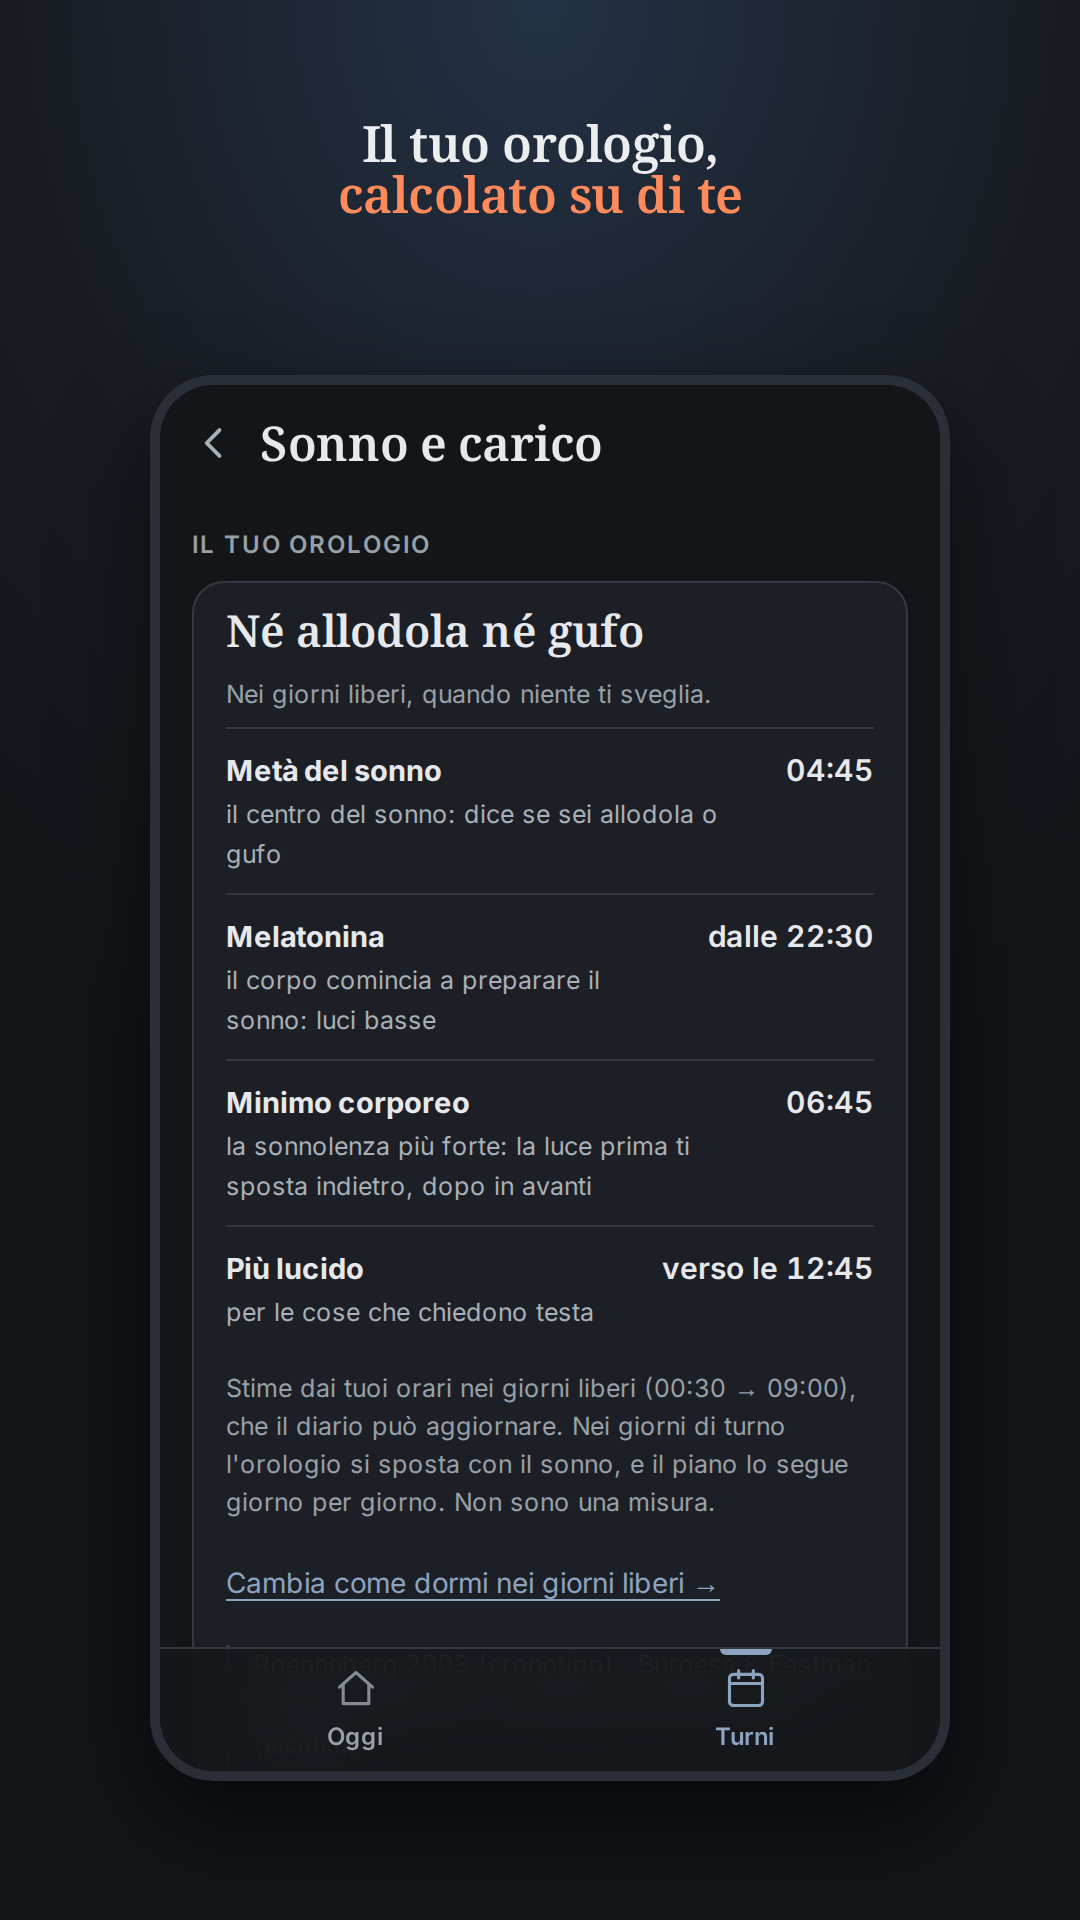
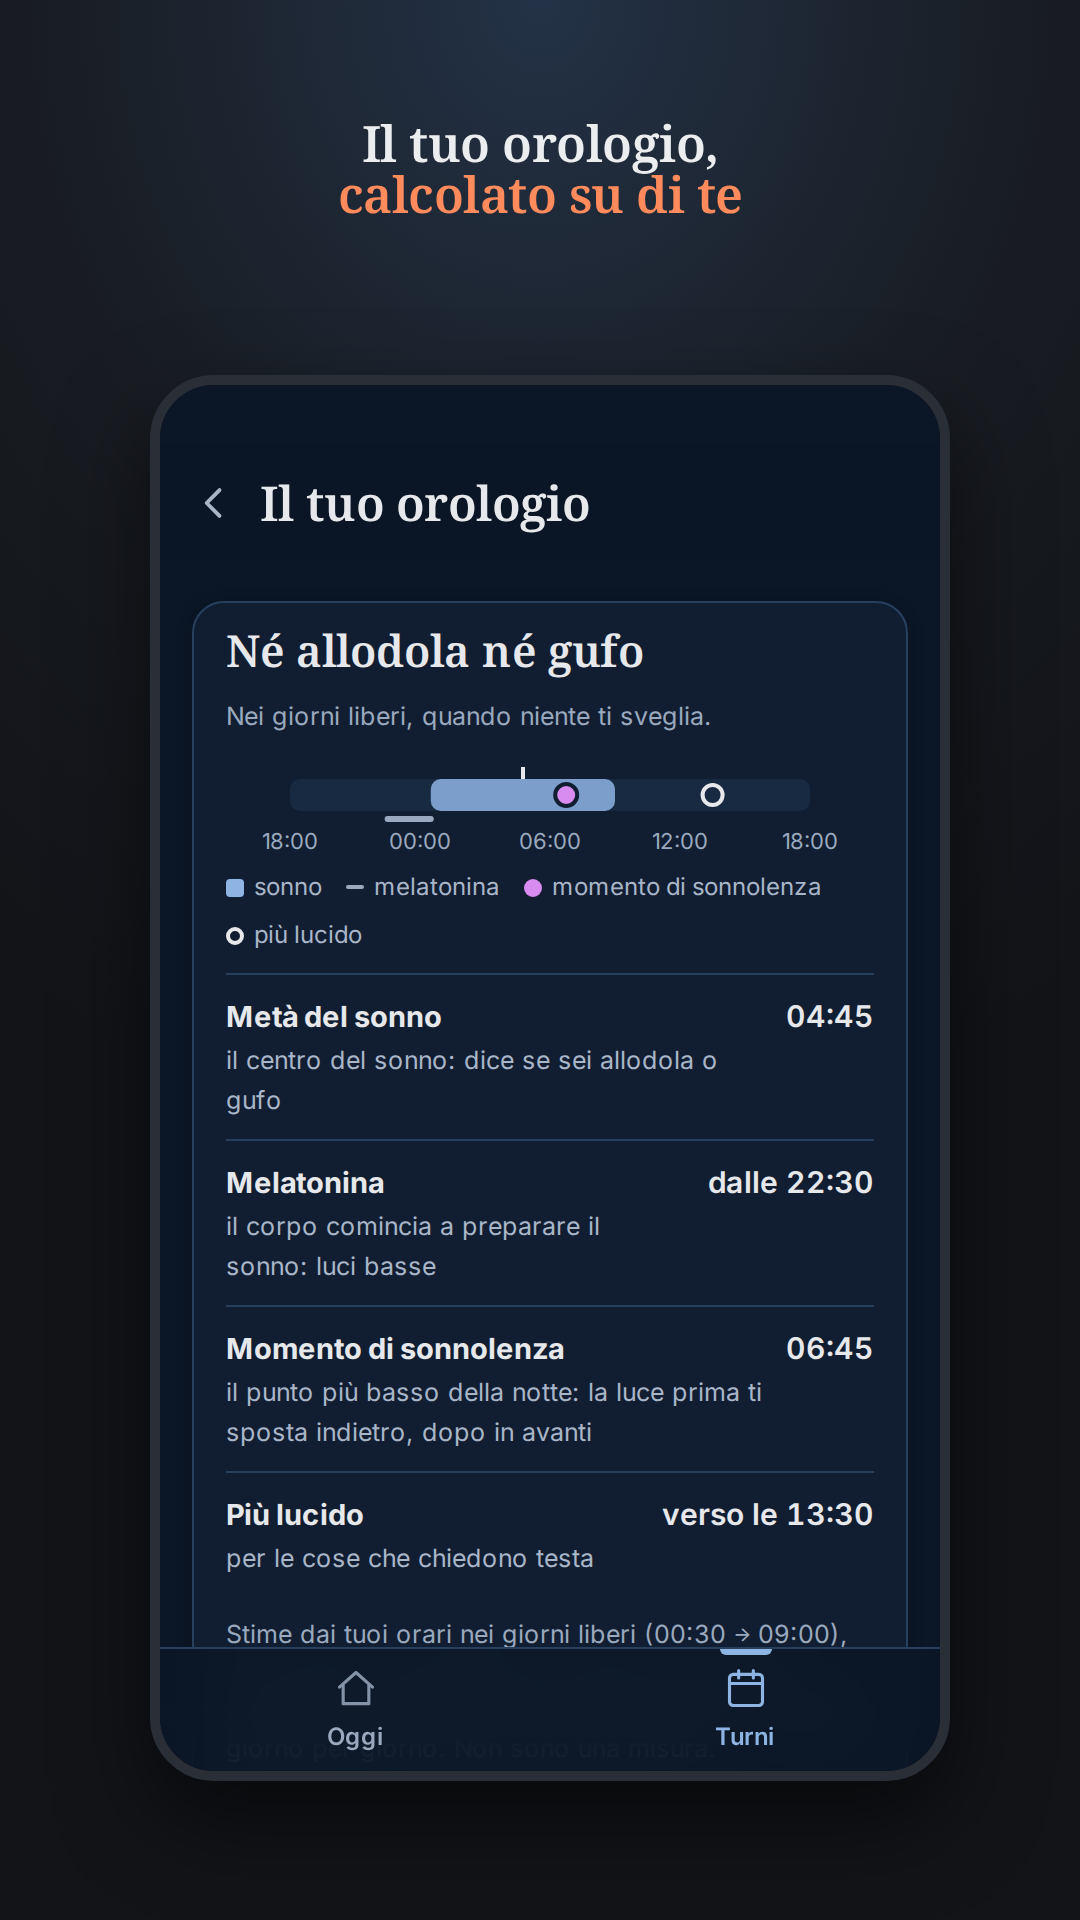
Scheda Play 1.4.0: descrizione completa aggiornata, note di versione, screenshot nuovi (mese, perché con le fonti, orologio, segna); dichiarazioni Health Connect e avvisi della release nei moduli; la cornice «spunti, non regole» non compare più sopra l'avvio

Changed region(s): [[0.2139, 0.2188, 0.825, 0.9062], [0.1833, 0.25, 0.2139, 0.2812]]

diff --git a/index.html b/index.html
@@ -4455,6 +4455,7 @@ function render(){
   renderACasa();
   renderLoSapevi();
   arbitroInviti();
+  { const c=$(".cornice"); if(c) c.hidden=!state.turniConfigurati; }   // la cornice del piano: non sopra l'avvio, che ha già la sua riga
   const tab = state.tab || (ess ? "oggi" : "ciclo");
   // "piu" (la vecchia terza tab, eliminata) non è più un valore raggiungibile
   // di state.tab/tab: oggi solo "oggi"/"turni"/"opzioni" lo sono davvero

diff --git a/docs/play/scheda.md b/docs/play/scheda.md
@@ -20,62 +20,62 @@ Varianti per l'esperimento sulla scheda (Play Console → Esperimenti sulla sche
 - B (70): `Il calendario turni che ti dice quando dormire. Gratis, senza account.`
 - C (74): `Turni di notte? Quando dormire, il caffè e la luce, sul tuo turno. Gratis.`
 
-## Descrizione completa (max 4000)
+## Descrizione completa (max 4000) — 3494 caratteri
 Lavori a turni? Notturnisti è il calendario dei turni che fa una cosa in più: ti dice, giorno per giorno, quando dormire, fino a che ora prendere il caffè, quando cercare la luce e quando fare un pisolino, calcolati sul tuo ciclo vero. Notti, mattine, pomeriggi, smonti e riposi.
 
 Un tocco per iniziare. Zero account. Tutto gratis, anche promemoria, widget, sveglia e calendario: niente abbonamenti, niente pubblicità.
 
 Pensata sui turni italiani: smonto, quinta e sesta, 12 ore, reperibilità, festivi, le 11 ore di riposo fra un turno e l'altro.
 
-PERCHÉ NON UN SEMPLICE CALENDARIO TURNI
-Un calendario ti dice che domani fai la notte. Notturnisti ti dice anche cosa fare oggi per arrivarci in forma: quando andare a letto, il pisolino, l'ultimo caffè, e come rientrare dopo l'ultima notte senza perdere due giorni.
-
 COME FUNZIONA
-• Scegli il turno di oggi con un tocco, oppure il tuo schema, anche con turni irregolari o che cambiano ogni settimana.
-• Il piano è una timeline: ora, cosa fare e perché, su come dormi davvero, il tragitto, il caffè e i pisolini.
+• Scegli il turno di oggi con un tocco, oppure il tuo schema, anche se cambia ogni settimana.
+• «Adesso» ti dice cosa fare in questo momento; sotto c'è tutta la giornata.
+• Ogni voce ha il suo perché: prima cosa fare, poi la spiegazione e gli studi da cui viene.
 • Prima di un cambio turno ti prepara: a letto prima per le mattine, sonno lungo e pisolino prima della prima notte.
-• Ogni consiglio ha il suo perché, in parole semplici, con gli studi da cui viene.
-• Hai già i turni nel calendario, in un file Excel o in una foto? Li importi dal primo avvio, e se si ripetono il ciclo continua da solo.
+• Luce pensata su più giorni, per restare più sveglio al lavoro e sulla strada di casa.
+• Nappuccino: quando serve, un caffè subito prima di un pisolino breve.
+• Turni nel calendario, in un file Excel o in una foto? Li importi dal primo avvio.
+• Vuoi solo l'essenziale? «Piano essenziale» lascia sonno, turno, pisolino, caffè, rientro e luce.
 
 FUNZIONA DA SOLO
-• Promemoria: quando prepararti a dormire, l'ultimo caffè, il rientro dopo la notte (l'ora più a rischio per chi guida), e un consiglio in più nei giorni impegnativi, come la terza notte di fila. Scegli tu quali: al massimo 4 al giorno, mai mentre dormi.
+• Promemoria: prepararti a dormire, l'ultimo caffè, il rientro dopo la notte. Scegli tu quali: al massimo 4 al giorno, mai mentre dormi.
 • Calendario del telefono: turni e sonno nell'app Calendario, aggiornati da soli.
-• Widget sulla schermata Home: cosa fare adesso, quanto manca alla prossima cosa e la tua settimana.
-• Sveglia: un tocco e la sveglia per fine sonno è nell'app Orologio del telefono.
+• Widget: cosa fare adesso e il mese dei turni.
+• Sveglia: un tocco e la sveglia è nell'app Orologio.
 
 SI ADATTA A TE
-Il tuo orologio: quando arriva la melatonina, il tuo minimo corporeo, quando sei più lucido, e se sei allodola o gufo. Calcolato dai tuoi orari, senza questionari e senza dispositivi da indossare.
-Non ti impone orari fissi. Annota come hai dormito con un tocco, anche dalla notifica del mattino. Se nei giorni liberi dormi in orari diversi da quelli impostati, o fai fatica ad anticipare la sveglia, l'app te lo propone e aggiorna il piano. Turno cambiato all'ultimo momento? Lo cambi con un tocco e il piano si ricalcola.
-Sonno e carico: quanto dormi prima di ogni turno, notti di fila, riposi brevi, orari regolari. E una copia completa su file, per non perdere niente cambiando telefono.
+Il tuo orologio biologico: melatonina, momento di sonnolenza, quando sei più lucido, allodola o gufo. Lo stimano due modelli scientifici sui tuoi turni e sul tuo sonno, e ti dicono da dove viene la stima.
+Se vuoi, sonno e passi da Salute di Android (Health Connect) rendono il piano più preciso: lo accendi tu, un tipo alla volta, e i dati restano sul telefono.
+Annota come hai dormito con un tocco: se nei giorni liberi dormi in orari diversi, l'app te lo propone e aggiorna il piano.
+Sonno e carico: il sonno da recuperare, quanto dormi prima di ogni turno, notti di fila, riposi brevi.
 
 PER CHI TI ASPETTA
-• Manda i tuoi turni o il tuo tempo libero su WhatsApp, o dove vuoi.
-• Trova il tempo libero in comune con partner, famiglia o chi lavora con te.
-• Cambio turno: scambi due giorni o cambi un turno, e prima vedi quanto sonno ti costa e se ti restano 11 ore di riposo.
-• Stampa o salva in PDF un calendario da appendere al frigo.
-• Il mese in numeri accanto al tuo ciclo, a ore o a calendario: turni, notti, domeniche e festivi del contratto.
-• Ferie: dove metterle per stare più a casa, anche con i festivi, nei fine settimana o con chi ami.
+• Manda turni o tempo libero su WhatsApp, o dove vuoi.
+• Il tempo libero in comune con partner, famiglia o colleghi; un figlio a scuola si aggiunge in un tocco.
+• Cambio turno: prima vedi quanto sonno ti costa e se ti restano 11 ore di riposo.
+• Turni che cambiano? Li segni in un minuto, anche copiando la settimana prima.
+• Calendario da stampare, il mese in numeri, ferie dove stai più a casa.
+• Guidi per lavoro? Nel turno trovi le pause di guida. Notti fisse? Un'idea per i giorni liberi.
 
 PER CHI È
-Per chi lavora a turni e di notte: infermieri e OSS, medici, operai e turnisti, forze dell'ordine, vigili del fuoco, autisti, guardie giurate, addetti a logistica, assistenza e accoglienza.
+Per chi lavora a turni e di notte: infermieri e OSS, medici, operai, forze dell'ordine, vigili del fuoco, autisti, guardie giurate, logistica, assistenza e accoglienza.
 
 PRIVACY, SUL SERIO
-Turni, orari e diario restano sul tuo telefono: il piano si calcola lì. Nessuna profilazione; le statistiche d'uso anonime sono spente finché non le accendi tu.
+Turni, orari, diario e dati di Salute restano sul tuo telefono: il piano si calcola lì. Nessuna profilazione; le statistiche anonime sono spente finché non le accendi tu.
 
 COSA NON È
-Notturnisti dà indicazioni generali di benessere e organizzazione basate sulla letteratura scientifica sul sonno e sul lavoro a turni. Non è un dispositivo medico, non fa diagnosi e non sostituisce il parere di un medico. Le notifiche non sono una sveglia: la sveglia la mette l'app Orologio.
+Spunti di benessere e organizzazione basati sulla letteratura scientifica sul sonno e sul lavoro a turni, non regole da seguire alla lettera. Non è un dispositivo medico, non fa diagnosi e non sostituisce il parere di un medico. Le notifiche non sono una sveglia.
 
 Progetto indipendente, nato da chi i turni li fa. Segnalazioni: Impostazioni → Segnala cosa non torna.
 
-## Note di versione 1.3.9 (max 500)
-Novità:
-• Il tuo ciclo: ore o calendario, con i numeri del mese nella stessa scheda
-• Sonno e carico a voci chiare; orari di notte e di giorno separati
-• Festivi con il puntino; «Nei festivi sono a casa» anche per i cicli
-• «Cambia un turno» senza scambio; Segna con intervallo e annulla
-• Copia completa su file, con ripristino
-• Widget: mese a sei settimane, energia dopo 90 minuti, sveglia vera annotata
-• «Calo previsto» più preciso: non scorre più con l'orologio
+## Note di versione 1.4.0 (max 500)
+Novità 1.4.0
+• Salute di Android, solo se vuoi: sonno e passi rendono il piano più preciso. Restano sul telefono.
+• Orologio biologico stimato meglio, luce pensata su più giorni e «nappuccino»: caffè + pisolino breve quando serve.
+• Turni si apre sul mese, con i festivi in rosso.
+• Più chiaro e gentile: un invito alla volta, il perché in breve.
+• Per chi guida per lavoro, per le notti fisse e per la famiglia.
+• App più veloce.
 
 ## Categoria, tag e contatti
 - Categoria: Salute e fitness
@@ -92,9 +92,9 @@ Novità:
 - Immagine in evidenza 1024×500: feature-1024x500.png (da `feature.html`, stessa grafica dell'intestazione dello sviluppatore)
 - Screenshot telefono 1080×1920, in quest'ordine (i primi tre sono quelli che si vedono senza scorrere):
   1. 01-oggi — Il tuo piano di oggi, sul tuo turno
-  2. 02-turni — Tutta la settimana a colpo d'occhio
+  2. 02-turni — Tutto il mese a colpo d'occhio
   3. 03-onboarding — Che turno fai oggi? Un tocco e hai il piano
-  4. 04-perche — Ogni consiglio spiegato
+  4. 04-perche — Ogni consiglio spiegato, con le fonti
   5. 05-orologio — Il tuo orologio, calcolato su di te
   6. 06-liberi — Il tuo tempo libero, per chi ti aspetta
   7. 07-scambio — Cambio turno: ti conviene?

diff --git a/docs/play/moduli.md b/docs/play/moduli.md
@@ -1,6 +1,6 @@
 # Moduli della Play Console — risposte
 
-Verificate sul codice (16/10/2026, package club.notturnisti.app). Se l'app
+Verificate sul codice (16/10/2026, aggiornate il 03/11/2026 per la 1.4.0 con Health Connect; package club.notturnisti.app). Se l'app
 cambia cosa invia in rete, vanno aggiornate.
 
 ## Sicurezza dei dati (Data safety)
@@ -17,7 +17,8 @@ statistiche facoltative).
   giorno senza identificativi, non riconducibili a una persona; chi li
   accende può spegnerli in qualsiasi momento.
 - **Non raccolti** (restano sul telefono, non lasciano il dispositivo): turni,
-  orari, diario del sonno (informazioni sulla salute), eventi del calendario,
+  orari, diario del sonno (informazioni sulla salute), sonno e passi letti da
+  Health Connect (salute e attività fisica), eventi del calendario,
   posizione, contatti, identificativi del dispositivo, indirizzo IP.
 - **Cloudflare** è un fornitore di servizi che tratta i dati per conto nostro:
   per Google non è "condivisione".
@@ -44,7 +45,20 @@ statistiche facoltative).
   conseguenza del piano di sonno, non una funzione a sé.
 - Dispositivo medico / funzioni cliniche: **No**. Nell'app e nella scheda:
   «non è un dispositivo medico».
-- Health Connect: **non usato**.
+- Health Connect: **usato, solo in lettura** (dalla 1.4.0): `READ_SLEEP` e `READ_STEPS`. Ogni tipo si accende da
+  un interruttore in Impostazioni › Salute (spento di default), legge gli ultimi 21 giorni solo ad app aperta, i dati
+  restano sul telefono e si cancellano spegnendo. Nessuna scrittura, nessuna lettura in background, nessuno storico
+  oltre i 30 giorni (`READ_HEALTH_DATA_HISTORY` non è chiesto). Testi da incollare in «Dichiarazione per le
+  autorizzazioni di Health Connect»:
+
+  **READ_SLEEP**
+  > Notturnisti è un'app di pianificazione del sonno per chi lavora su turni e di notte. Legge le sessioni di sonno solo se l'utente accende l'interruttore «Sonno» in Impostazioni › Salute (spento di default) e concede il permesso. Legge inizio e fine delle sessioni degli ultimi 21 giorni, solo quando l'app è aperta (mai in background). Le usa per: calcolare la stima dell'orologio biologico e quindi il piano del sonno, il momento di maggiore sonnolenza e i consigli su luce, pisolini e caffè; e proporre gli orari reali nel diario del sonno («Come hai dormito?»), che l'utente conferma o corregge. I dati restano sul telefono: non vengono inviati a server, non sono condivisi con terzi, non servono per pubblicità né profilazione. Spegnendo l'interruttore vengono cancellati dall'app; il permesso si può togliere in ogni momento da Health Connect.
+
+  **READ_STEPS**
+  > Notturnisti è un'app di pianificazione del sonno per chi lavora su turni e di notte. Legge i passi solo se l'utente accende l'interruttore «Passi» in Impostazioni › Salute (spento di default) e concede il permesso. Legge i passi degli ultimi 21 giorni, sommati a blocchi di 10 minuti, solo quando l'app è aperta (mai in background). Li usa per un solo scopo: capire quando la persona era sveglia durante un periodo di sonno (almeno 50 passi in 10 minuti interrompono il sonno). Così la stima dell'orologio biologico, l'orario del momento di maggiore sonnolenza e i consigli su luce, pisolini e caffè si basano su dati reali. I dati restano sul telefono: non vengono inviati a server, non sono condivisi con terzi, non servono per pubblicità né profilazione. Spegnendo l'interruttore vengono cancellati dall'app; il permesso si può togliere in ogni momento da Health Connect.
+- Sicurezza dei dati: sonno e passi **non raccolti** (non lasciano il telefono), quindi le risposte sopra non cambiano.
+- Schermata del perché dei permessi: `PerchePermessiActivity` risponde a `ACTION_SHOW_PERMISSIONS_RATIONALE` e
+  `VIEW_PERMISSION_USAGE` (richiesto da Health Connect) e apre l'informativa privacy.
 
 ## Classificazione dei contenuti (IARC)
 - Categoria: «Utilità, produttività, comunicazione o altro».
@@ -68,8 +82,17 @@ statistiche facoltative).
 | RECEIVE_BOOT_COMPLETED, WAKE_LOCK | Ripristino dei promemoria dopo il riavvio (plugin notifiche locali) |
 | READ_CALENDAR, WRITE_CALENDAR | Calendario «Notturnisti» sul telefono (solo se l'utente lo accende) |
 | INTERNET | Statistiche facoltative, link al sito |
+| health.READ_SLEEP, health.READ_STEPS | Sonno e passi da Health Connect, solo se l'utente accende il loro interruttore (dalla 1.4.0) |
 
 ## Rilascio
+Avvisi attesi alla 1.4.0 (si può procedere):
+- **«Questa release non supporta più circa 1.342 dispositivi»**: è il minSdk passato da 24 a 26 (Android 8.0), richiesto
+  da Health Connect. Restano fuori i telefoni con Android 7.x (circa l'1% del mercato). Chi li ha tiene la versione già
+  installata, non riceve più aggiornamenti; la web app (app.notturnisti.club) resta disponibile anche per loro.
+- **«Nessun file di deoffuscamento»**: R8/ProGuard è spento (`minifyEnabled false`), il codice non è offuscato, quindi
+  non c'è un file da caricare. Accenderlo ridurrebbe le dimensioni, ma richiede regole per i plugin Capacitor e prove
+  sul telefono: da valutare a parte.
+
 1. Test interno (solo tu) con l'.aab dal workflow «Android release».
 2. Test chiuso: almeno 12 tester, 14 giorni di fila (obbligatorio per i nuovi
    account personali), lista gestita con un gruppo Google.

diff --git a/docs/prossimo-aggiornamento.md b/docs/prossimo-aggiornamento.md
@@ -11,7 +11,7 @@ Fatto nella 1.1.1 (non serve più): tolto il vecchio wizard nascosto; suggerimen
 - Domenica 25/10: la riga «Cambio d'ora» nel giorno di sabato e «Mancano» in ore vere.
 - Statistiche: guardare `sveglia_messa`, `diario_widget`, `voce_*`, `orologio_tuo`, `festivi_*`, `ferie_con`.
 
-## Fatto il 03/11/2026 (nel ramo, non ancora rilasciato: serve l'OK di Davide)
+## Fatto il 03/11/2026 (PWA rilasciata; AAB 1.4.0, versionCode 34, nel test chiuso)
 - **Tono e un solo nome per cosa** (P0): «Momento di sonnolenza» al posto di minimo corporeo/biologico, sonnolenza massima e picco; «Luce bassa» al posto di Penombra (l'id interno resta `penombra`); «Adesso» senza «rischio alto», «WCOL», «massima cautela»; «Scoperta» al posto di «Insight»; il debito «si smaltisce dormendo»; barre arancioni solo da mezz'ora sotto il piano. Test `tests/tono.test.js` (frasi vietate nei testi visibili).
 - **Inviti**: `arbitroInviti()`: in Oggi al più uno in alto (banner del primo piano > lista di attivazione > adatta > medico > piano di prova) e uno in fondo («Lo sapevi?»); «Dimmi i tuoi orari» tace se c'è un altro invito. Riga di cornice in fondo a Oggi e al primo avvio: spunti, non regole né consigli medici.
 - **Fogli del perché** in tre strati (`strutturaPerche`): in breve, «Perché» chiuso, fonti in una riga. «Ancora mercoledì» con una riga che spiega. Voci alla stessa ora: l'ora si scrive una volta. «Piano essenziale» in Cosa vedi nel piano.
@@ -121,7 +121,7 @@ Parte minimale e aggiunge un pezzo alla volta con l'altezza (`WidgetPiano`): **a
 - [ ] **Da fare a mano, sul telefono** (non si può fare da qui): TalkBack (ordine di lettura, nomi dei pulsanti, annunci dei fogli); le prove della 1.3.10; righe del grafico «Ore» alte 30 px (passano i 24 px di WCAG 2.2, non i 44 consigliati).
 - [x] **Debito di sonno, difetto «10 ore a chi segue il piano»** (31/10/2026): corretto misurando contro il sonno che il piano chiedeva, tetto 6 h, elenco delle notti nel «Perché?»; test sui tre cicli. Il bisogno resta il sonno dei giorni liberi (può essere gonfiato dal recupero): valutare un tetto o un campo suo.
 - [ ] **Debito di sonno, da tarare sui dati reali** (dopo qualche settimana di diari): `rendimento` 0,5, soglie 60/180/300 min, tetto 10 h e finestra 14 giorni (`debito.js`, `bonusDebito`) sono scelte prudenti, non misurate. Limite noto: la notte con la sola sveglia annotata non entra nel bonus della notte (entra nel pisolino).
-- [ ] **Screenshot dello store** (`app/scripts/screenshot-store.mjs`, `screenshot-oggi.jpg`, `screenshot-turni.jpg`) da rifare con la palette nuova, quando si aggiorna la scheda Play.
+- [x] **Screenshot dello store** rifatti per la 1.4.0 (03/11/2026): `node app/scripts/screenshot-store.mjs` → `docs/play/img/01…08`; il mese in Turni, il foglio del perché con le fonti, Il tuo orologio da «Sonno e carico», «Segna i turni». Scheda e note in `docs/play/scheda.md`, moduli e dichiarazioni Health Connect in `docs/play/moduli.md`. (`screenshot-oggi.jpg` e `screenshot-turni.jpg` nella radice sono del sito: da rifare a parte se servono.)
 - [ ] **Feedback utente (31/10/2026): «nel messaggio degli orari liberi indica quando inizia il turno»** — valutato: di norma no (le finestre già escludono turno, viaggio e sonno; dire «turno dalle 14:00» aggiunge dati personali senza aiutare a scegliere un orario). Da decidere: una riga fissa in fondo al messaggio («Gli orari escludono turno, viaggio e sonno») che risponde al dubbio senza esporre nulla; eventualmente, più avanti, un interruttore «Aggiungi turno e riposo» spento di default (`testoOrariLiberi`).
 - [x] **Logiche di recupero** (31/10/2026, da una nota di Davide): recupero del 35% a notte adeguata, anticipo del letto a sveglia ferma (30–45 min), sleep banking fino a 4 giorni prima di un blocco di notti, pisolino da 90 min solo a ≥ 4 h dalla sveglia, smonto con sveglia fissa e luce. Dettagli e riserve in `passaggio-di-consegne.md`.
 - [x] **Calendario di coppia semplificato** (31/10/2026): in Persone lo stato e un pulsante per il tuo telefono, il resto in «Altre opzioni» (chiuso); nel foglio «Gestisci» la frase sul ritardo una volta sola e «Cambi telefono o vuoi cancellare?» chiuso (ripristino e «Cancella tutto»); tolti i pulsanti «Sincronizza» (l'app aggiorna da sola); un'unica funzione per le azioni del calendario (`NTPaid.calAction`, prima duplicata in `index.html`).
